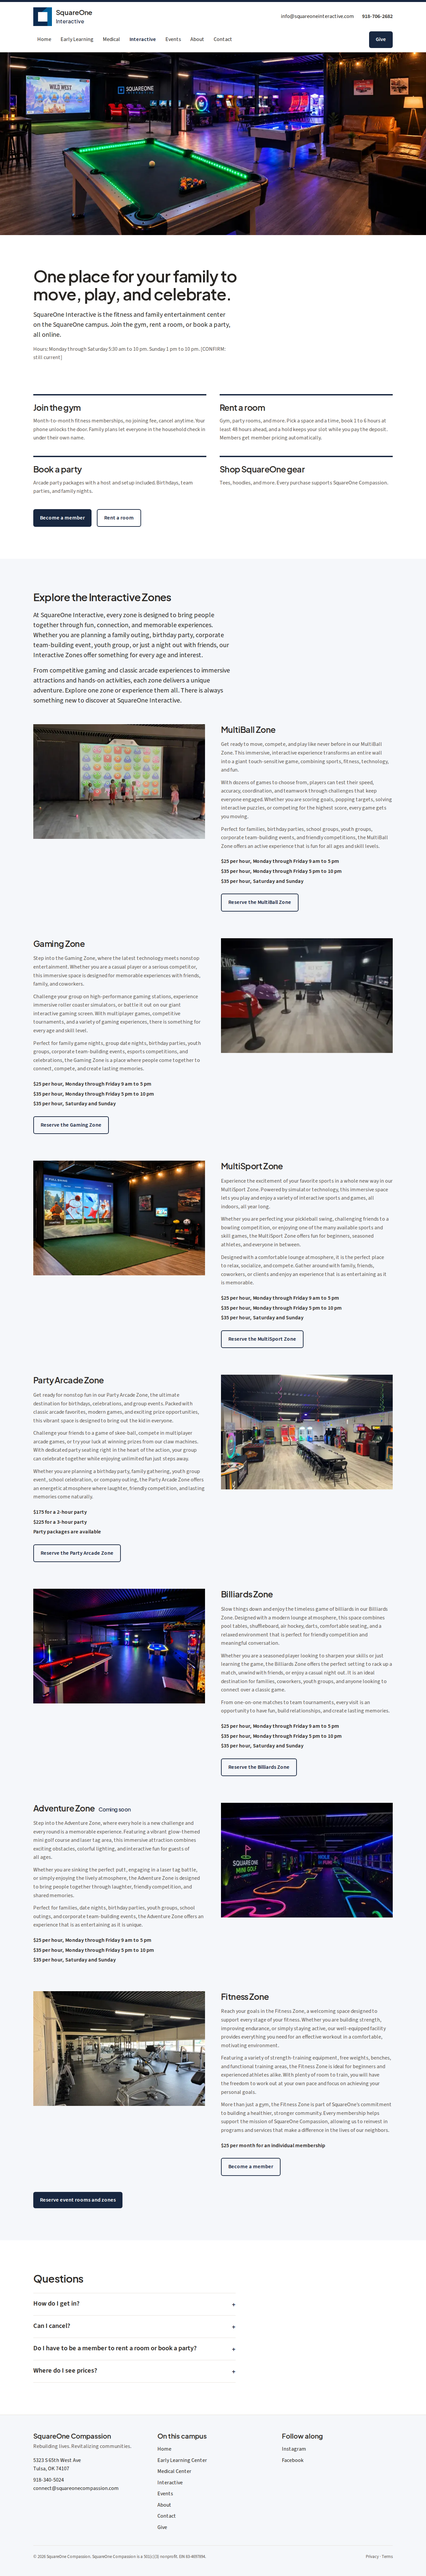
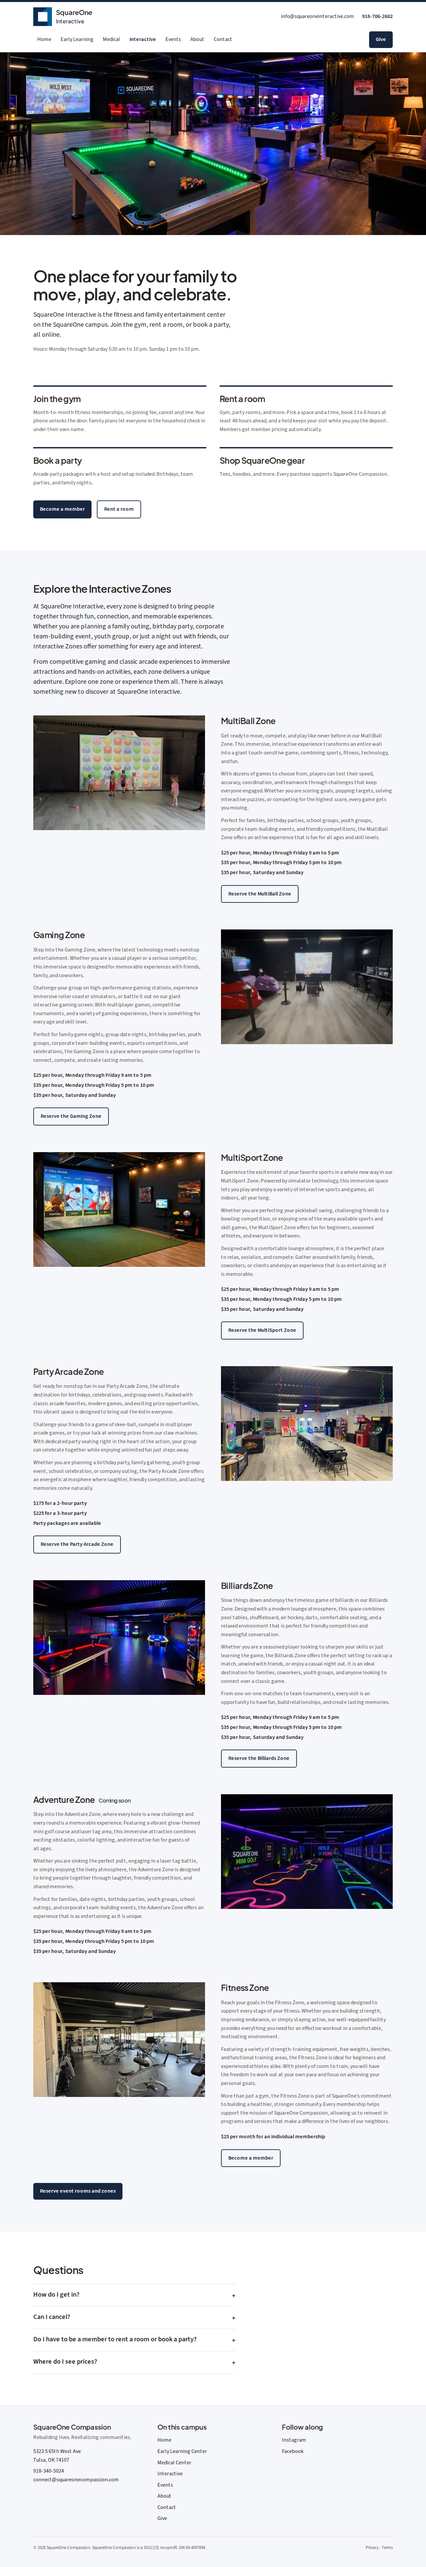
Interactive hours confirmed; remove the confirm note
Claude-Session: https://claude.ai/code/session_01Dy1NBE1CDjARVuM4emY1ru

diff --git a/app/interactive/page.tsx b/app/interactive/page.tsx
@@ -1,7 +1,6 @@
 import type { Metadata } from 'next'
 import { PageIntro, Section } from '@/components/Section'
 import { FAQ } from '@/components/FAQ'
-import { Confirm } from '@/components/Confirm'
 import { ZoneCard } from '@/components/ZoneCard'
 import { PageBanner } from '@/components/PageBanner'
 import { appUrl } from '@/lib/site'
@@ -33,7 +32,7 @@ export default async function InteractivePage() {
       <PageIntro title="One place for your family to move, play, and celebrate.">
         <p className="text-ink">SquareOne Interactive is the fitness and family entertainment center on the SquareOne campus. Join the gym, rent a room, or book a party, all online.</p>
         <p className="mt-4 text-base">
-          Hours: Monday through Saturday 5:30 am to 10 pm. Sunday 1 pm to 10 pm. <Confirm>still current</Confirm>
+          Hours: Monday through Saturday 5:30 am to 10 pm. Sunday 1 pm to 10 pm.
         </p>
       </PageIntro>
 

diff --git a/content/COPY.md b/content/COPY.md
@@ -227,7 +227,7 @@ This page is a short front door. Booking, memberships, packages, and the shop al
 
 **Intro:** SquareOne Interactive is the fitness and family entertainment center on the SquareOne campus. Join the gym, rent a room, or book a party, all online.
 
-**Hours:** Monday through Saturday 5:30 am to 10 pm. Sunday 1 pm to 10 pm. `[CONFIRM: still current]`
+**Hours:** Monday through Saturday 5:30 am to 10 pm. Sunday 1 pm to 10 pm.
 
 **Four tiles (each links into the app):**
 

diff --git a/CONFIRM.md b/CONFIRM.md
@@ -67,7 +67,7 @@ See `.env.example`. Without these:
 
 ### Interactive
 - [ ] Final domain for the app (e.g. interactive.squareonecompassion.com)
-- [ ] Hours still current? (Mon to Sat 5:30 am to 10 pm, Sun 1 pm to 10 pm)
+- [x] Hours confirmed (Mon to Sat 5:30 am to 10 pm, Sun 1 pm to 10 pm)
 - [ ] Whether to list fitness membership prices here (old site: $25 individual / $75 family)
 
 ### Events
